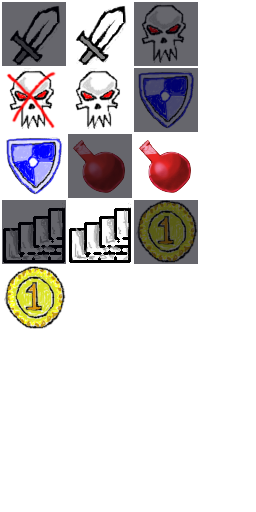
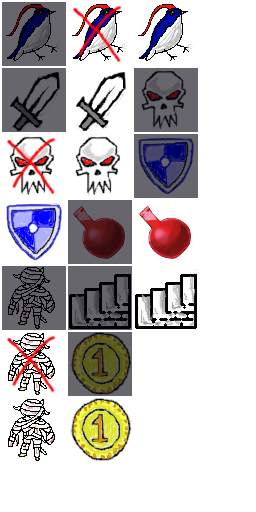
鳥追加

diff --git a/diablo/Field.cpp b/diablo/Field.cpp
@@ -28,6 +28,8 @@ Field::Field(CCLayer* parentLayer, Player* player){
     
     this->_panelNames->addObject(new CCString("coin"));
     this->_panelNames->addObject(new CCString("skelton"));
+    this->_panelNames->addObject(new CCString("miira"));
+    this->_panelNames->addObject(new CCString("tori"));
     this->_panelNames->addObject(new CCString("shield"));
     this->_panelNames->addObject(new CCString("sword"));
     this->_panelNames->addObject(new CCString("potion"));
@@ -187,7 +189,7 @@ void Field::setRemovedPanel(CCPoint* point){
 }
 
 PanelSprite* Field::createPanel(int indexX, int indexY){
-    CCString* panelName = (CCString*) _panelNames->objectAtIndex(rand()%6);
+    CCString* panelName = (CCString*) _panelNames->objectAtIndex(rand()%8);
     PanelSprite* pSprite = this->createPanelSprite(panelName->getCString());
     float size = PANEL_SIZE * PANEL_SCALE;
     pSprite->setSize(size);
@@ -202,6 +204,10 @@ PanelSprite* Field::createPanel(int indexX, int indexY){
 PanelSprite* Field::createPanelSprite(std::string panelName){
     PanelSprite* pSprite;
     if(panelName == "skelton"){
+        pSprite = Enemy::createWithSpriteFrameName(panelName.c_str());
+    } else if(panelName == "miira"){
+        pSprite = Enemy::createWithSpriteFrameName(panelName.c_str());
+    } else if(panelName == "tori"){
         pSprite = Enemy::createWithSpriteFrameName(panelName.c_str());
     } else if(panelName == "potion"){
         pSprite = Potion::createWithSpriteFrameName(panelName.c_str());
